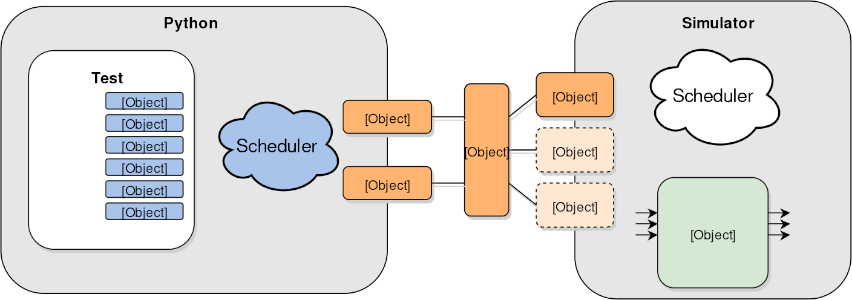
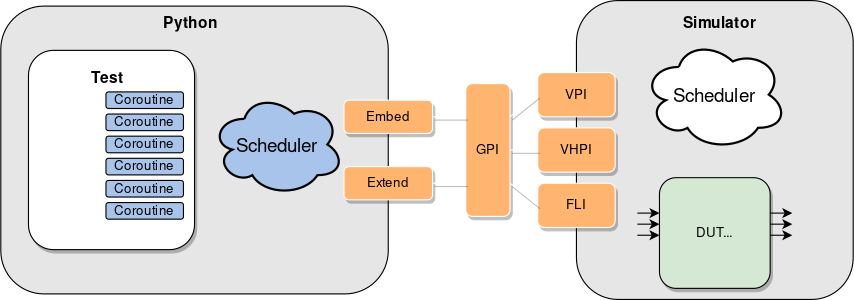
Added a few introductory slides for a cocotb tutorial

diff --git a/slides/cocotb.md b/slides/cocotb.md
@@ -1,0 +1,65 @@
+<!-- .slide: data-background="#145A32" -->
+
+# cocotb tutorial
+
+[github.com/rodrigomelo9/FOSS-for-FPGAs](https://github.com/rodrigomelo9/FOSS-for-FPGAs)
+[rodrigomelo9.github.io/FOSS-for-FPGAs/cocotb.html](https://rodrigomelo9.github.io/FOSS-for-FPGAs/cocotb.html)
+
+**Rodrigo A. Melo**
+
+[Creative Commons Attribution 4.0 International](https://creativecommons.org/licenses/by/4.0/)
+
+##### Last update: cocotb 1.6
+
+---
+
+## Introduction
+
+![cocotb](images/logos/cocotb.png)
+
+cocotb is a **CO**routine based **CO**simulation **T**est**B**ench environment for verifying
+VHDL and (System)Verilog RTL using Python.
+
+* **Repo:** [github.com/cocotb/cocotb](https://github.com/cocotb/cocotb)
+* **Docs:** [docs.cocotb.org/en/stable](https://docs.cocotb.org/en/stable)
+
+---
+
+## How does it work?
+
+![cocotb overview](images/diagrams/cocotb_overview.png)
+
+**Source:** [docs.cocotb.org/en/stable](https://docs.cocotb.org/en/stable)
+
+---
+
+## Installation
+
+```bash
+apt install make gcc g++ python3 python3-dev python3-pip
+pip3 install cocotb
+```
+
+### Supported simulators
+
+[Icarus Verilog](https://github.com/steveicarus/iverilog),
+[Verilator](https://github.com/verilator/verilator),
+Synopsys VCS,
+Aldec Riviera-PRO and Active-HDL,
+Mentor Questa and ModelSim,
+Cadence Incisive and Xcelium,
+[GHDL](https://github.com/ghdl/ghdl),
+Tachyon [CVC](https://github.com/cambridgehackers/open-src-cvc).
+
+---
+<!-- ###################################################################### -->
+# Questions?
+<!-- .slide: data-background="#1F618D" -->
+<!-- ###################################################################### -->
+
+|   |   |
+|---|---|
+| ![GitHub icon](images/icons/github.png) | [rodrigomelo9](https://github.com/rodrigomelo9) |
+| ![Twitter icon](images/icons/twitter.png) | [rodrigomelo9ok](https://twitter.com/rodrigomelo9ok) |
+| ![LinkedIn icon](images/icons/linkedin.png) | [rodrigoalejandromelo](https://www.linkedin.com/in/rodrigoalejandromelo/) |
+|   |   |
